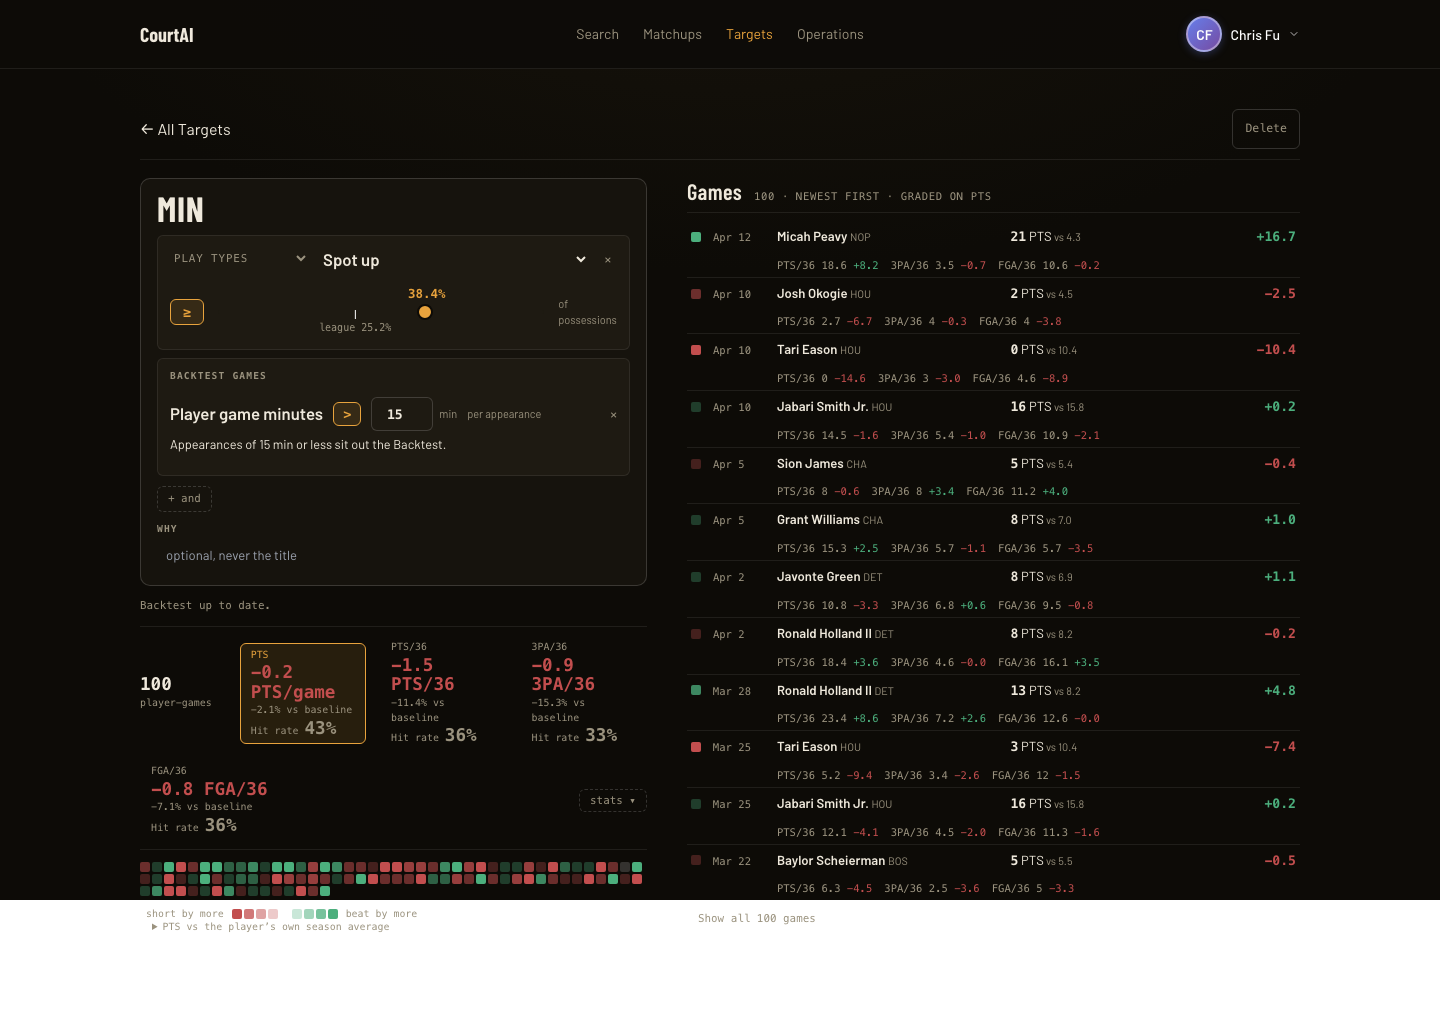
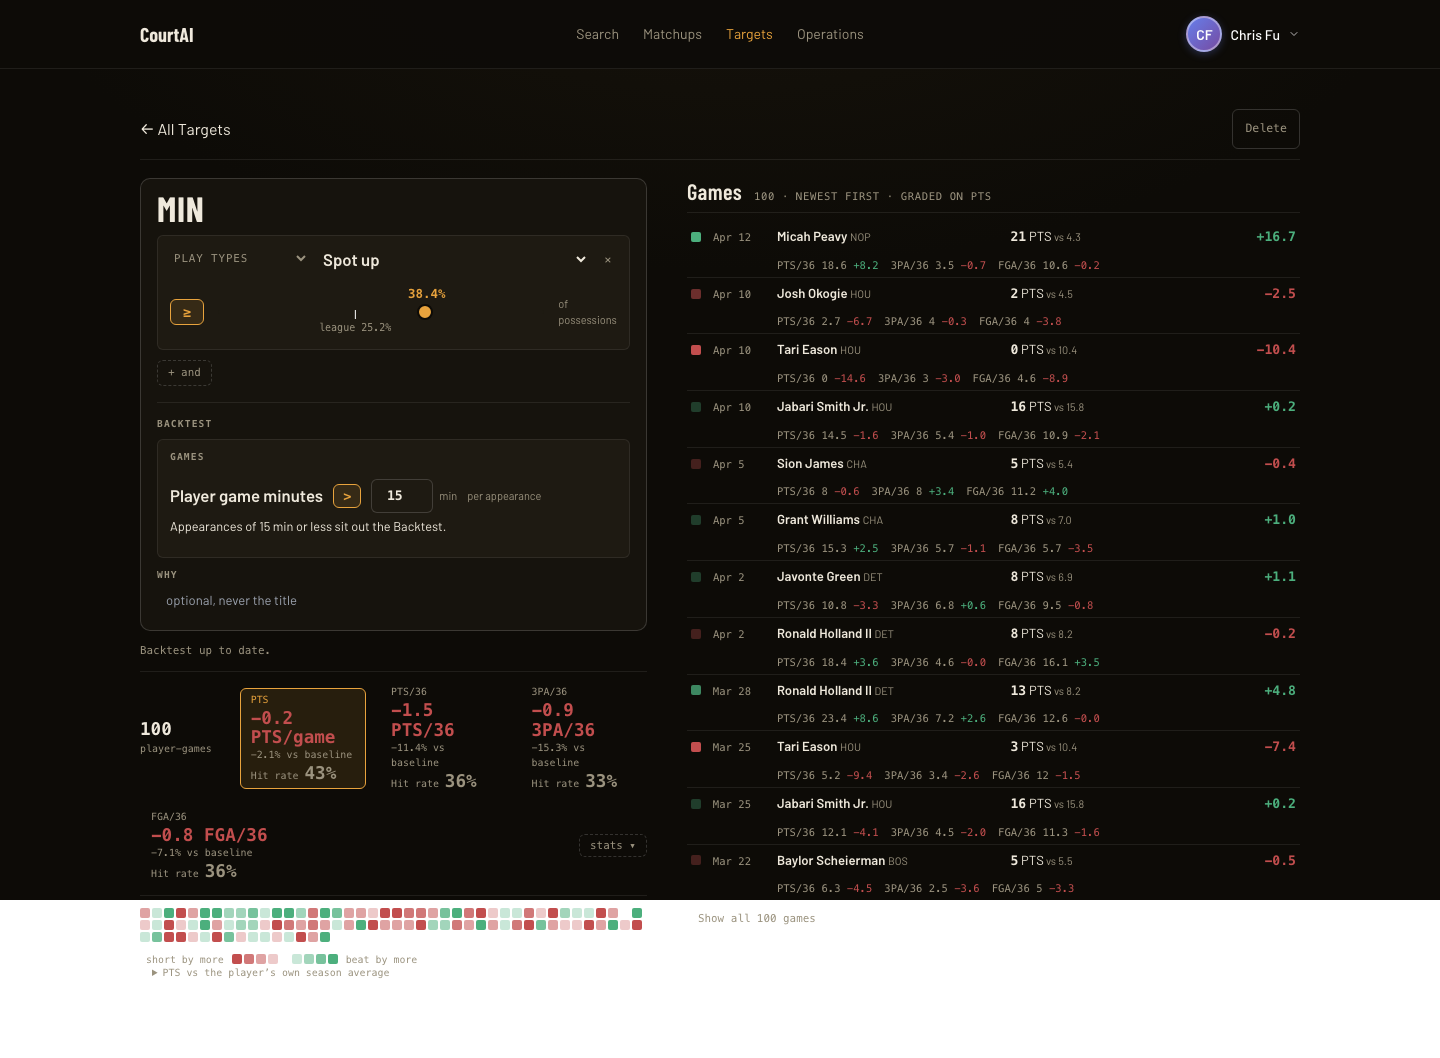
Refresh PR 112 screenshots for the Backtest section

diff --git a/docs/screenshots/pr-112/README.md b/docs/screenshots/pr-112/README.md
@@ -5,14 +5,14 @@ production Railway backend. No fixtures or seeded data. Desktop 1440×900 and
 phone 390×844, full page.
 
 - `list-*` — `/targets`. The MIN · Spot up card carries a saved
-  `player game minutes > 15` Condition, so its Backtest line reads
+  `player game minutes > 15` floor, so its Backtest line reads
   `Backtest · season to date · excludes games ≤ 15 min`. The record header
   shows `player-games` with no minutes tile, and no Condition line is repeated
   beneath the heading.
-- `workbench-*` — `/targets/10`, the same Target. The minutes floor has its own
-  `BACKTEST GAMES` card, apart from the Conditions that scope the opponent's
-  games. The Lab below goes straight from `Backtest up to date.` to the
-  evidence.
+- `workbench-*` — `/targets/10`, the same Target. The Qualifier and the
+  opponent Conditions sit above `+ and`; below it a `BACKTEST` section holds
+  the standing minutes floor. The Lab goes straight from `Backtest up to date.`
+  to the evidence.
 
-That Target has no date window saved, so no Window card appears. Adding one
-gives it a separate card beneath the minutes floor.
+The floor is always on screen. Empty reads `off` and applies nothing; a figure
+sets the floor.
